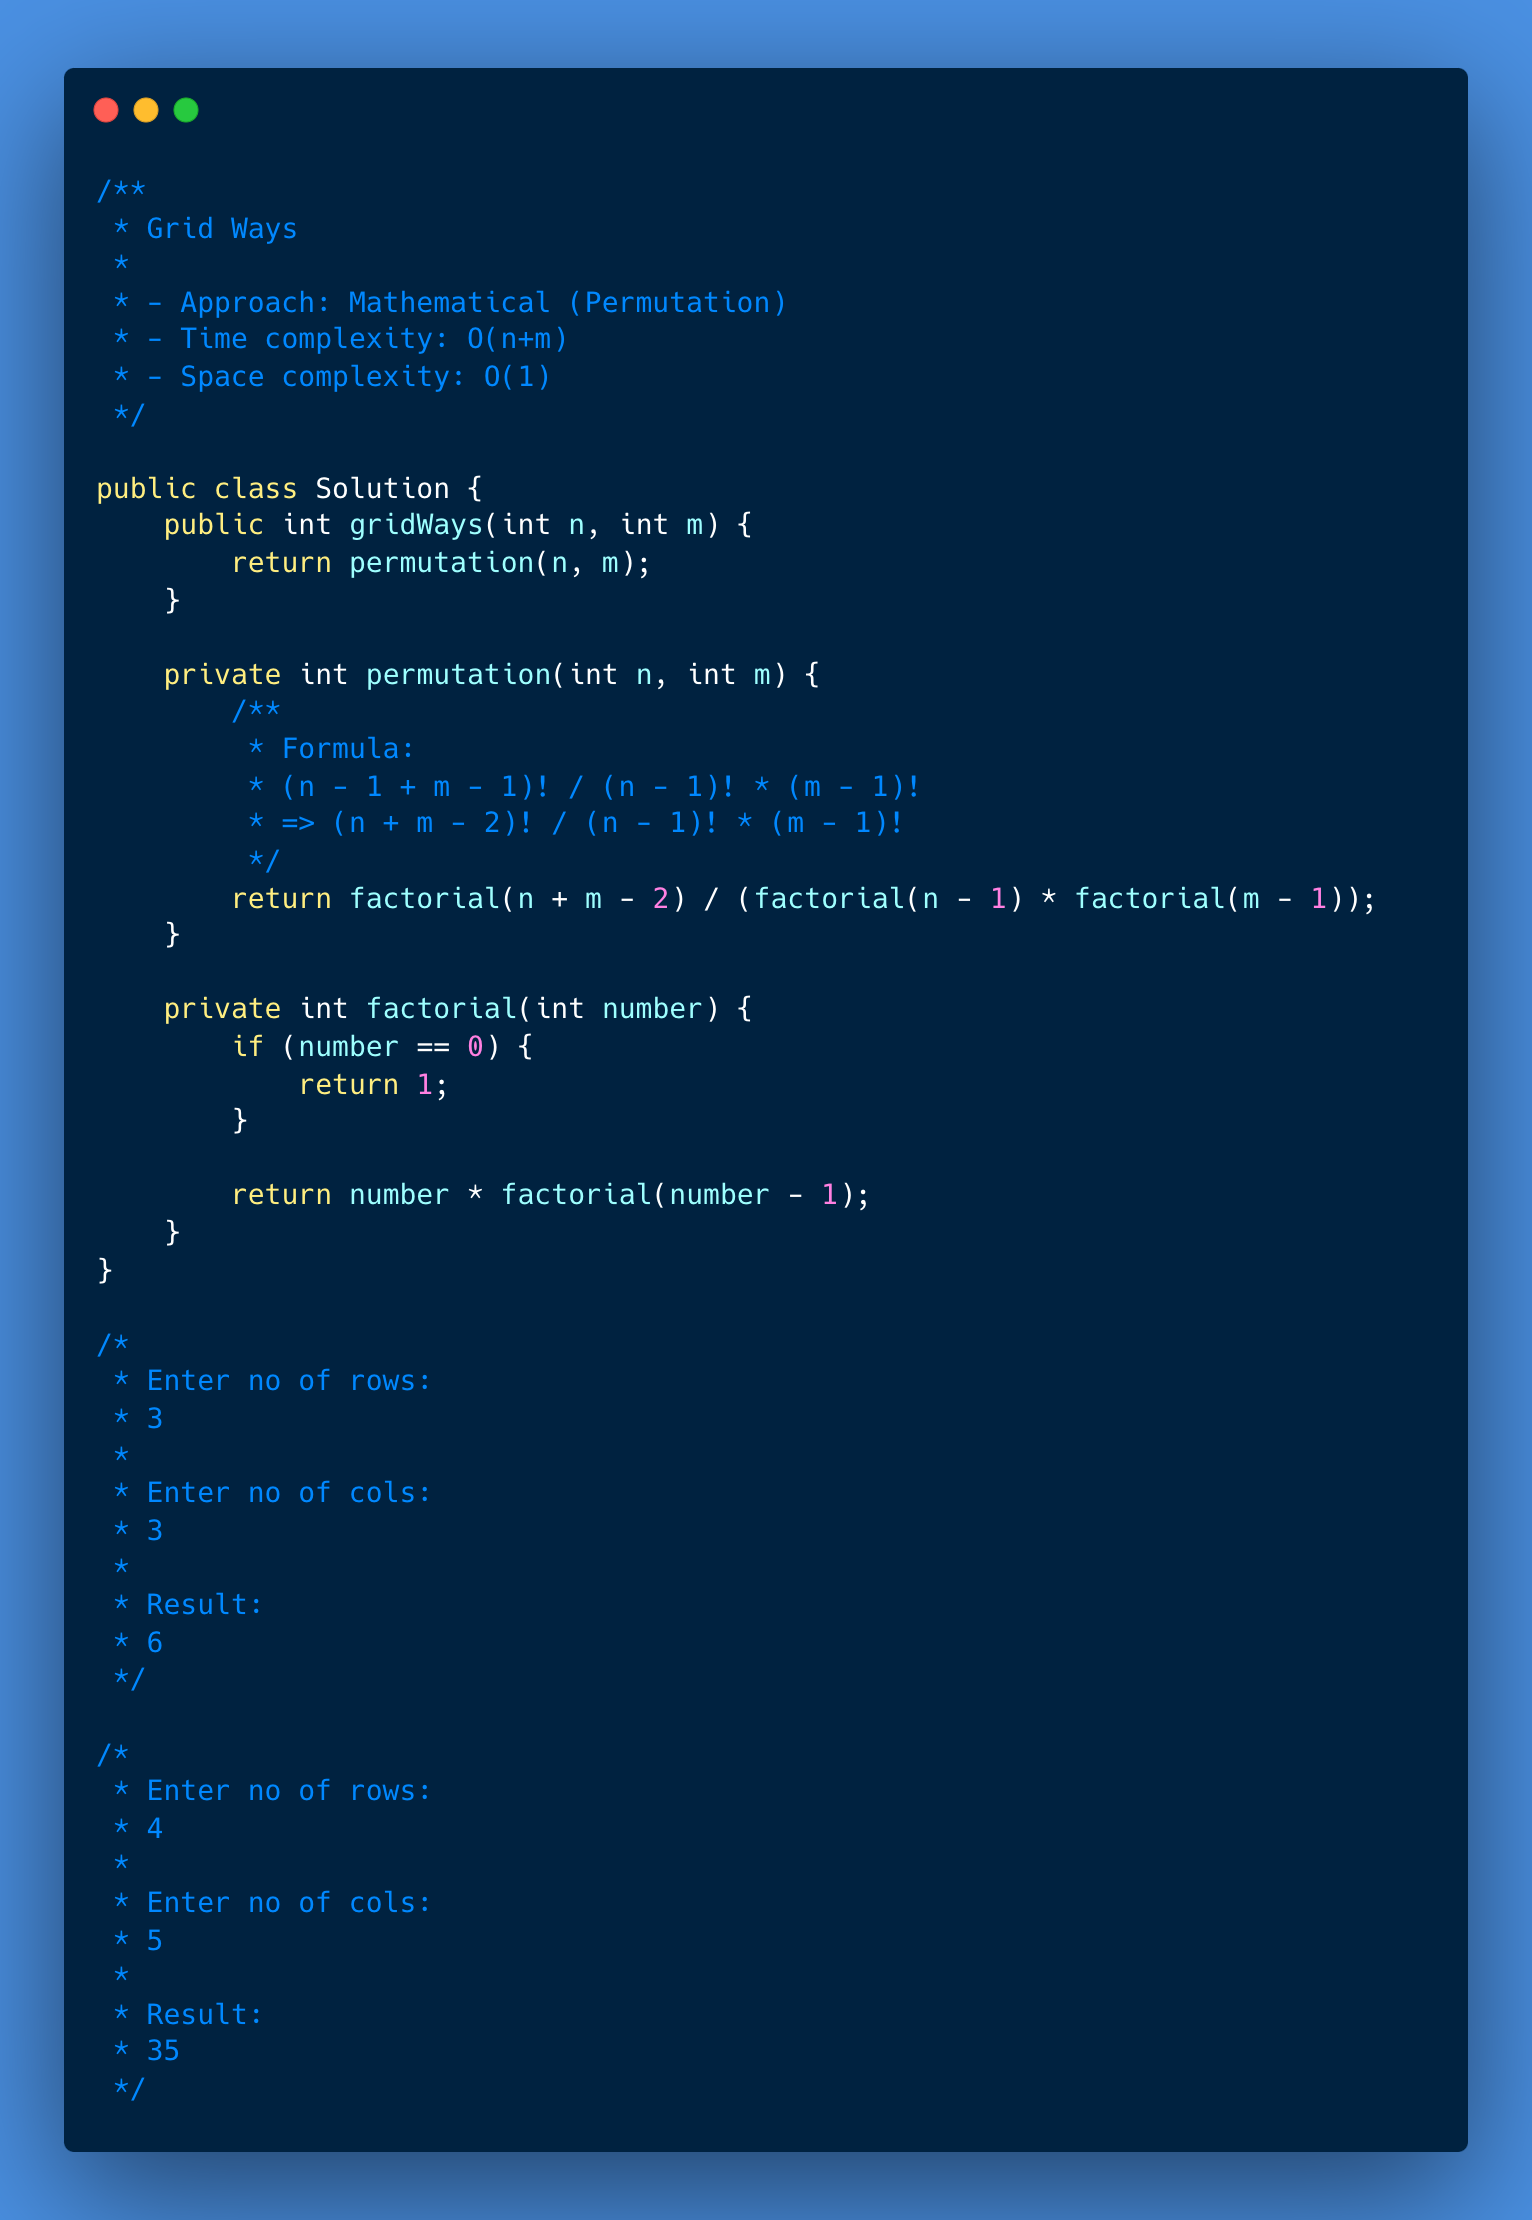
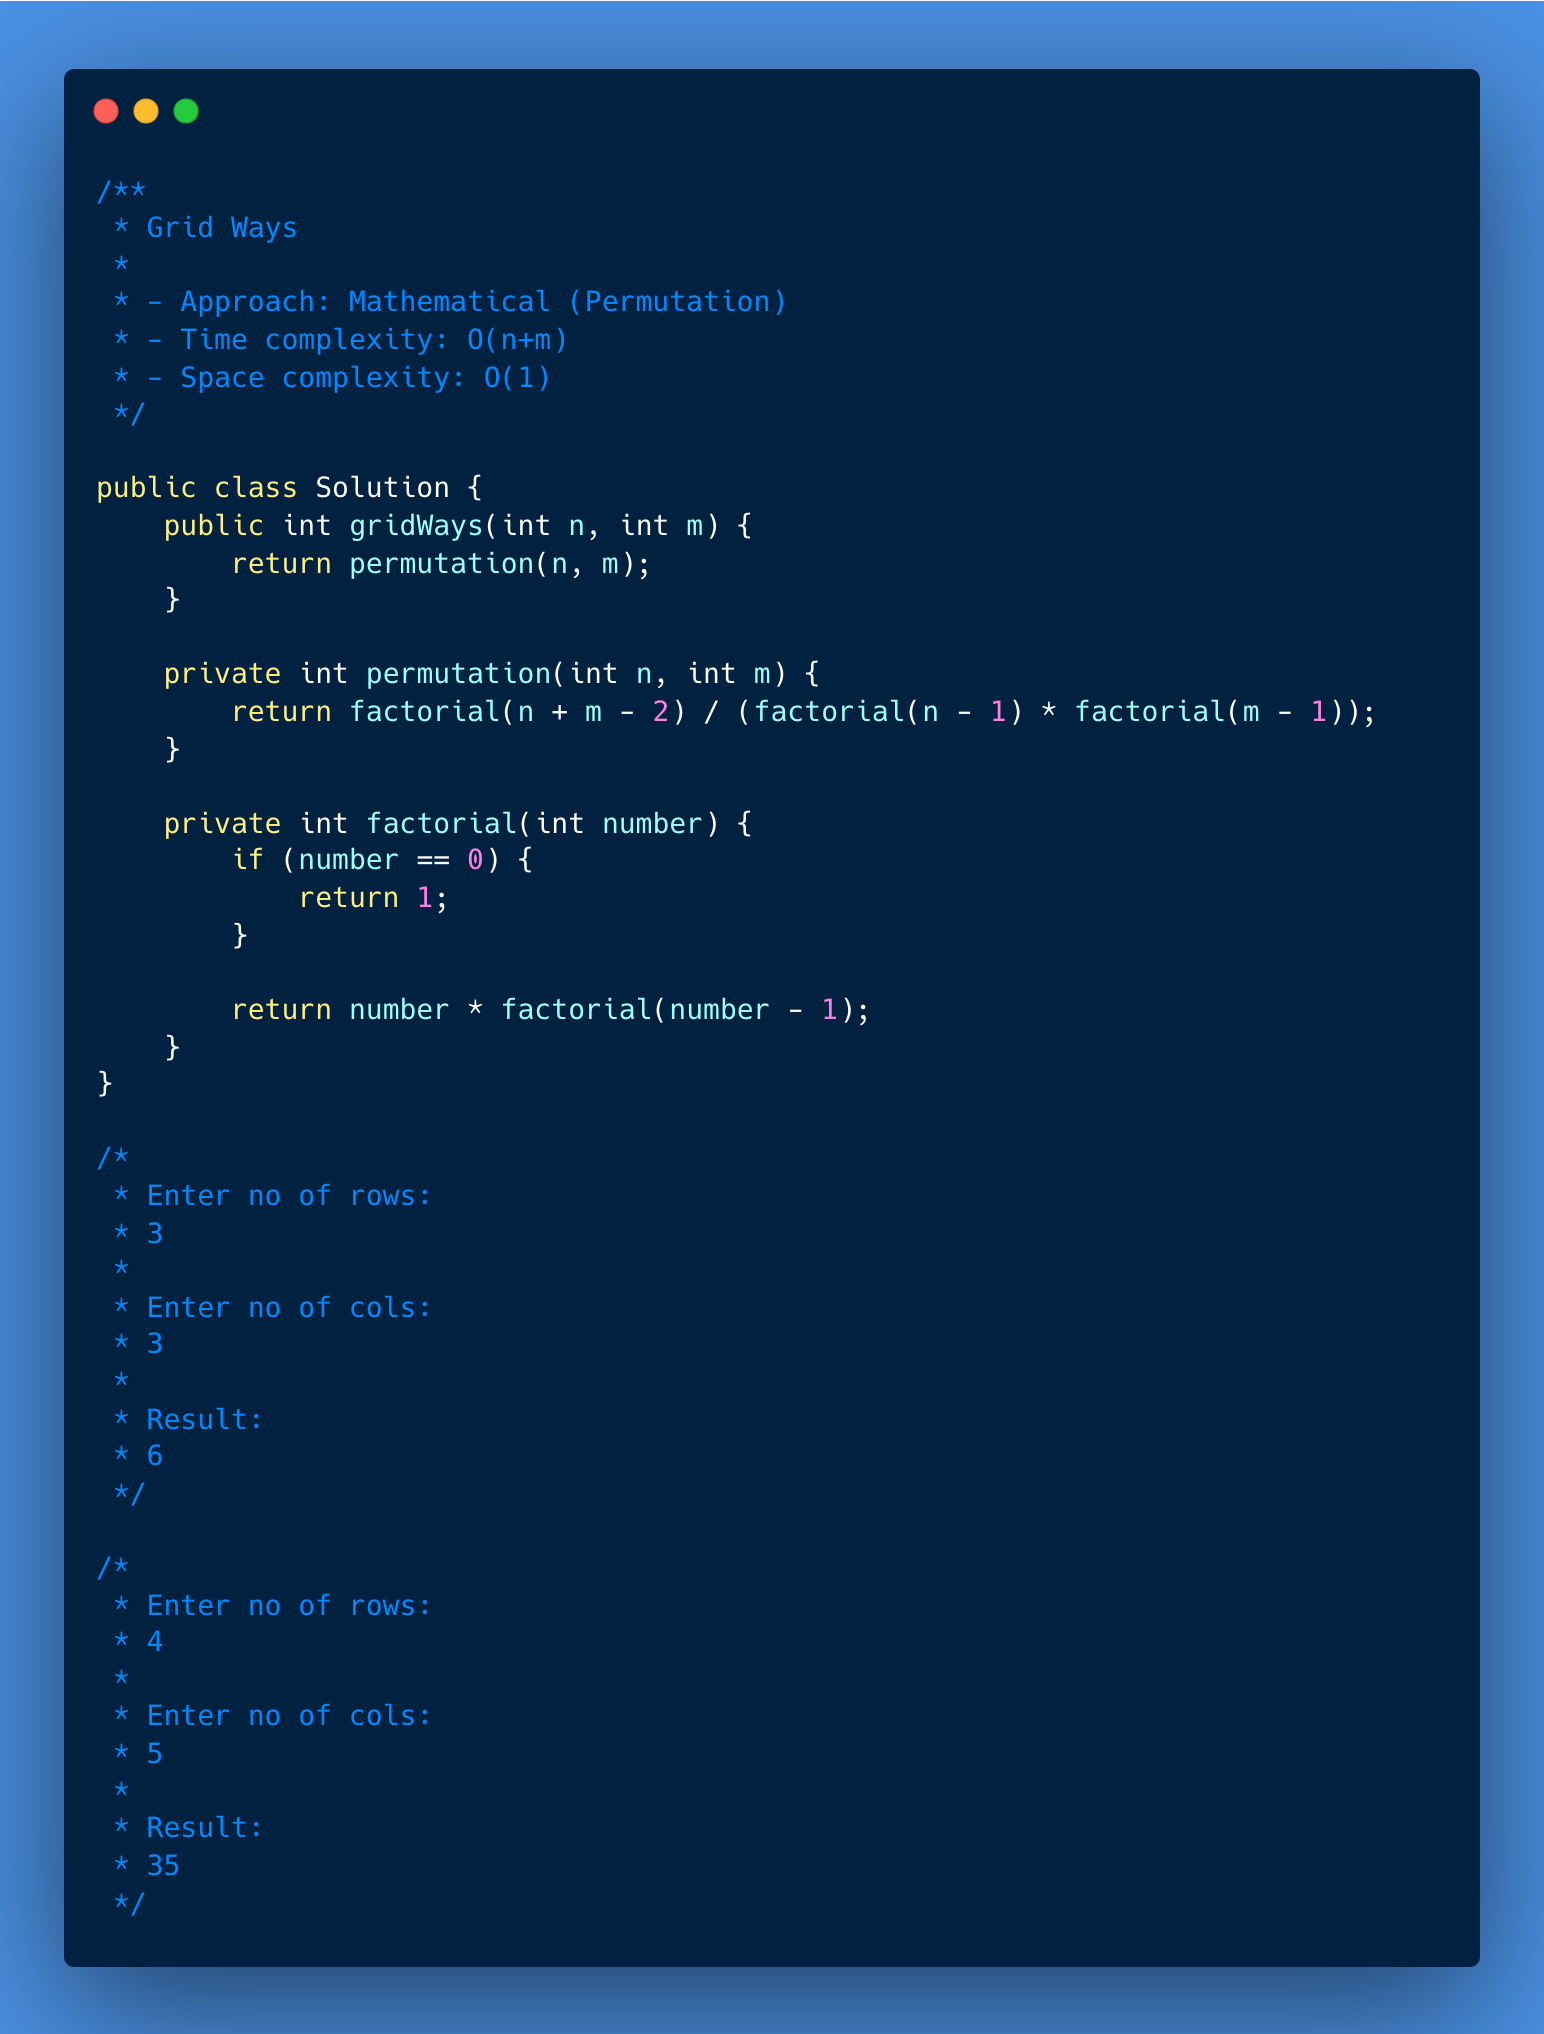
Code updates

diff --git a/124-grid-ways/002-solution/Solution.java b/124-grid-ways/002-solution/Solution.java
@@ -12,11 +12,6 @@ public class Solution {
     }
 
     private int permutation(int n, int m) {
-        /**
-         * Formula:
-         * (n - 1 + m - 1)! / (n - 1)! * (m - 1)!
-         * => (n + m - 2)! / (n - 1)! * (m - 1)!
-         */
         return factorial(n + m - 2) / (factorial(n - 1) * factorial(m - 1));
     }
 

diff --git a/124-grid-ways/README.md b/124-grid-ways/README.md
@@ -1,0 +1,14 @@
+# Grid Ways
+
+## Formula for Solution 002: Mathematical (Permutation)
+
+Permutation formula is used to solve this problem. The formula is:
+
+```math
+(n - 1 + m - 1)! / (n - 1)! * (m - 1)!
+=> (n + m - 2)! / (n - 1)! * (m - 1)!
+```
+
+where, `n` is the number of rows
+
+and, `m` is the number of columns.

diff --git a/143-pair-sum-rotated-sorted-arraylist/Readme.md b/143-pair-sum-rotated-sorted-arraylist/Readme.md
@@ -1,6 +1,8 @@
 # Pair Sum in Rotated Sorted Array
 
-## Two Pointers (l, r on opposite sides of the pivot)
+## Formula for Solution 001: Two Pointers
+
+> (l, r on opposite sides of the pivot)
 
 As it's a rotated sorted array,
 
